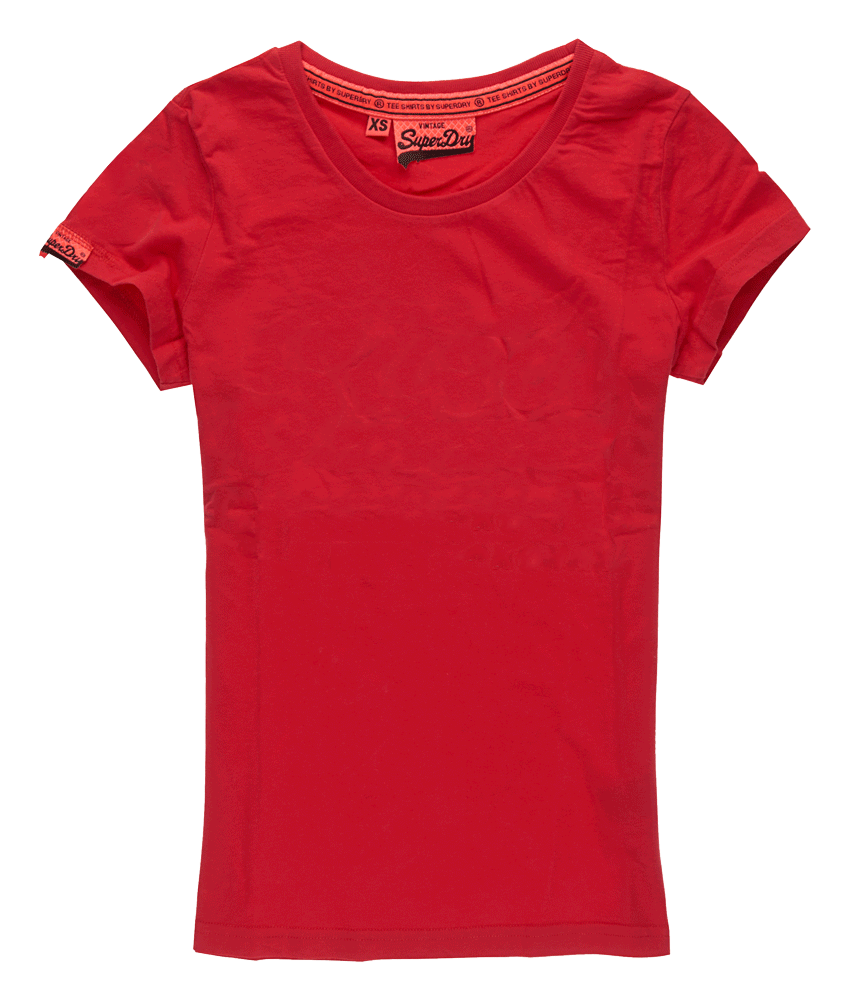
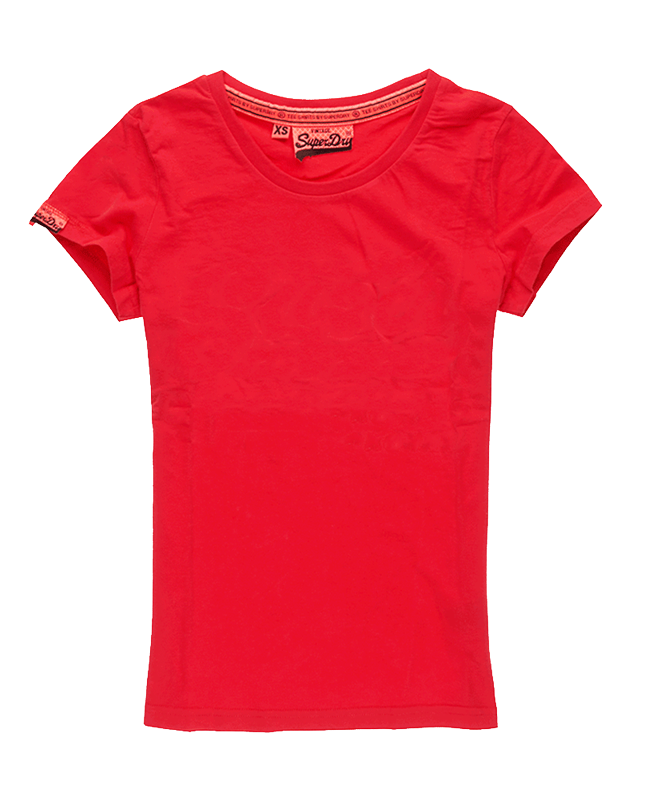
improved images

diff --git a/js/pixie/index.html b/js/pixie/index.html
@@ -387,6 +387,7 @@
             <script data-preload="true" data-path="." src="pixie-integrate.js"></script>
             <script src="assets/js/scripts.js?v20"></script>
             <script src="assets/js/jquery.visible.min.js"></script>
+            <script src="assets/js/loading-overlay/src/loadingoverlay.min.js"></script>
 
             <script type="application/ng-template" id="gradient-sheet-template">
                 <md-bottom-sheet class="bottom-sheet gradients-sheet">
@@ -435,7 +436,7 @@
                         <label>手机号码</label>
                         <input type="text" ng-model="mobileNum">
                     </md-input-container>
-                    <md-button ng-click="saveImage($event)" class="md-raised md-primary">保存</md-button>
+                    <md-button ng-click="saveImage($event)" id="save-image-btn" class="md-raised md-primary">保存</md-button>
                 </md-dialog>
             </script>
 
@@ -512,13 +513,14 @@
 
         <script type="text/javascript">
             function createPost(url, userName, mobile) {
-                console.log("createPost run");
+                //save-image-btn
                 // post url + mobile + userName to API
+                //$.LoadingOverlay("show");
+
                 var uploadShirtAPI = "http://api.wedfairy.com/api/superdry/artwork/";
                 if(userName == ""){
                     userName = "Superdry User";
                 }
-
                 var jqxhr = $.post( uploadShirtAPI,  { image: url, mobile: mobile, name: userName }, function() {
                     console.log("post successsfully");
                 })
@@ -526,6 +528,7 @@
                     console.log("post successsfully, id is " + response.id);
                     window.location.href = "../../sharing_page.html?tshirt_id=" + response.id;
                 });
+                
             }
             document.addEventListener('DOMContentLoaded', function() {
                 var myPixie = Pixie.setOptions({
@@ -566,6 +569,7 @@
                                 console.log("onreadystatechange run");
                                 // xyz = xhr.responseText
                                 var data = JSON.parse(xhr.responseText);
+                                $.LoadingOverlay("show");
                                 console.log(data.key);
                                 var url = 'http://up.img.heidian.co/' + data.key;
                                 console.log(url);
@@ -599,7 +603,6 @@
                         flag=1;
                     });
                 }
-
              if ($(".toggle-float").visible()){
                     flag = 0;
                     $("#text-panel").hide( "fast", function() {

diff --git a/index.html b/index.html
@@ -37,7 +37,7 @@
 			 <div class="row text-container col-xs-offset-1 col-sm-5 col-xs-10">
 					<h1>挑战超级跩</h1>
 					<h2>T恤设计等你来！！！</h2>
-					<h3>#superZHUAI#</h3>
+					<h3>#SuperZHUAI#</h3>
 					<p>耍酷、玩跩皆态度！Superdry邀请你发挥极致想象力动手设计超跩T恤。前十位最佳设计者将获邀至北京颐堤港门店开幕秀场享受VIP礼遇，最佳前三位设计这可获得由知名造型师量身打造的Superdry超级跩产品造型，享受超级跩体验！截止日期7月12日，现在就来挑战！</p>
                 <button type="button" class="btn btn-start col-xs-12 col-md-4" onclick="window.location.href='#popup1'">开始设计</button>
 			 </div>
@@ -105,7 +105,7 @@
 
         <script>
             (function() {
-                var tshitsListAPI = "http://api.wedfairy.com/api/superdry/artwork/?page_size=50";
+                var tshitsListAPI = "http://api.wedfairy.com/api/superdry/artwork/?page_size=100";
                 $.getJSON( tshitsListAPI, {
                 })
                 .done(function(data) {

diff --git a/js/pixie/assets/js/scripts.js b/js/pixie/assets/js/scripts.js
@@ -28659,7 +28659,7 @@ var fabric = fabric || {
             return Math.round(100 * n.currentZoom)
         }
     }]), angular.module("ImageEditor").controller("TopPanelController", ["$rootScope", "$scope", "$mdDialog", "$mdToast", "$$rAF", "canvas", "history", "saver", function(t, e, n, i, r, o, a, s) {
-        e.history = a, e.isDemo = t.isDemo, e.canOpenImage = !1, e.canvas = o, e.openImageMode = "open", e.canvasWidth = 800, e.canvasHeight = 600, e.userName = "SuperDry", e.imageType = "png", e.imageQuality = 1, e.objectsPanelOpen = !0, e.historyPanelOpen = !1, e.openUploadDialog = function(t) {
+        e.history = a, e.isDemo = t.isDemo, e.canOpenImage = !1, e.canvas = o, e.openImageMode = "open", e.canvasWidth = 800, e.canvasHeight = 600, e.userName = "", e.imageType = "png", e.imageQuality = 4, e.objectsPanelOpen = !0, e.historyPanelOpen = !1, e.openUploadDialog = function(t) {
             n.show({
                 template: $("#main-image-upload-dialog-template").html(),
                 targetEvent: t,
